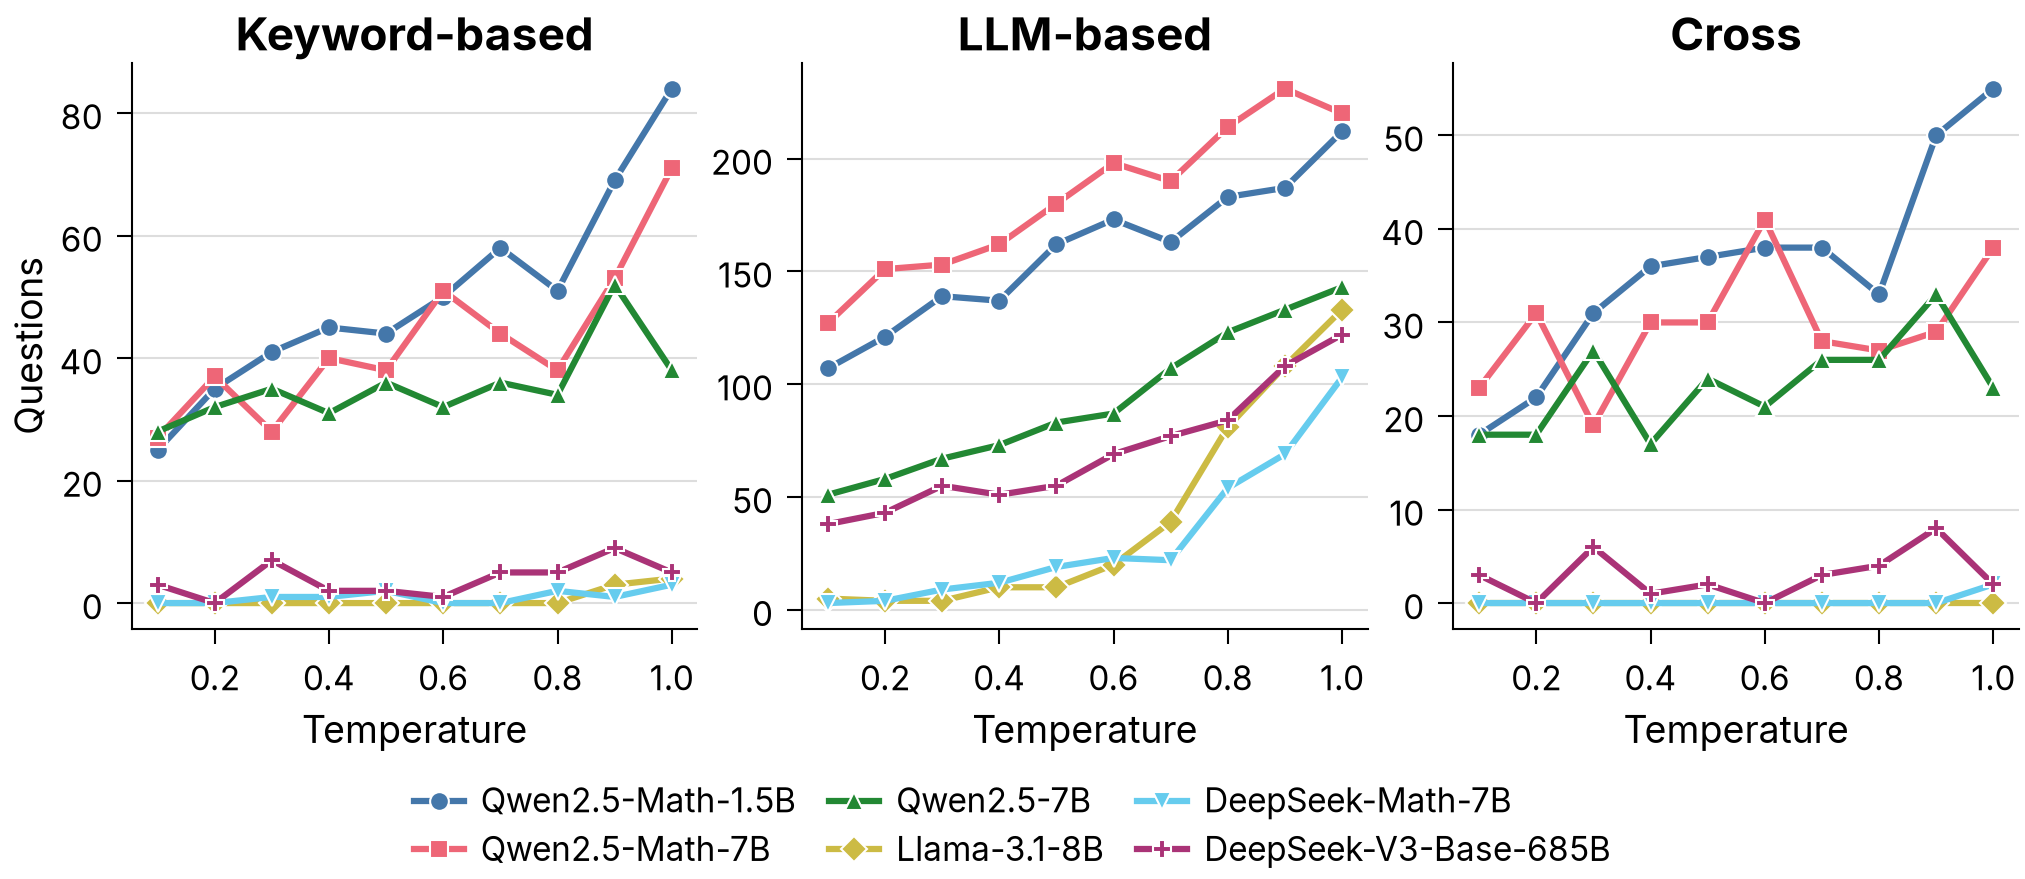
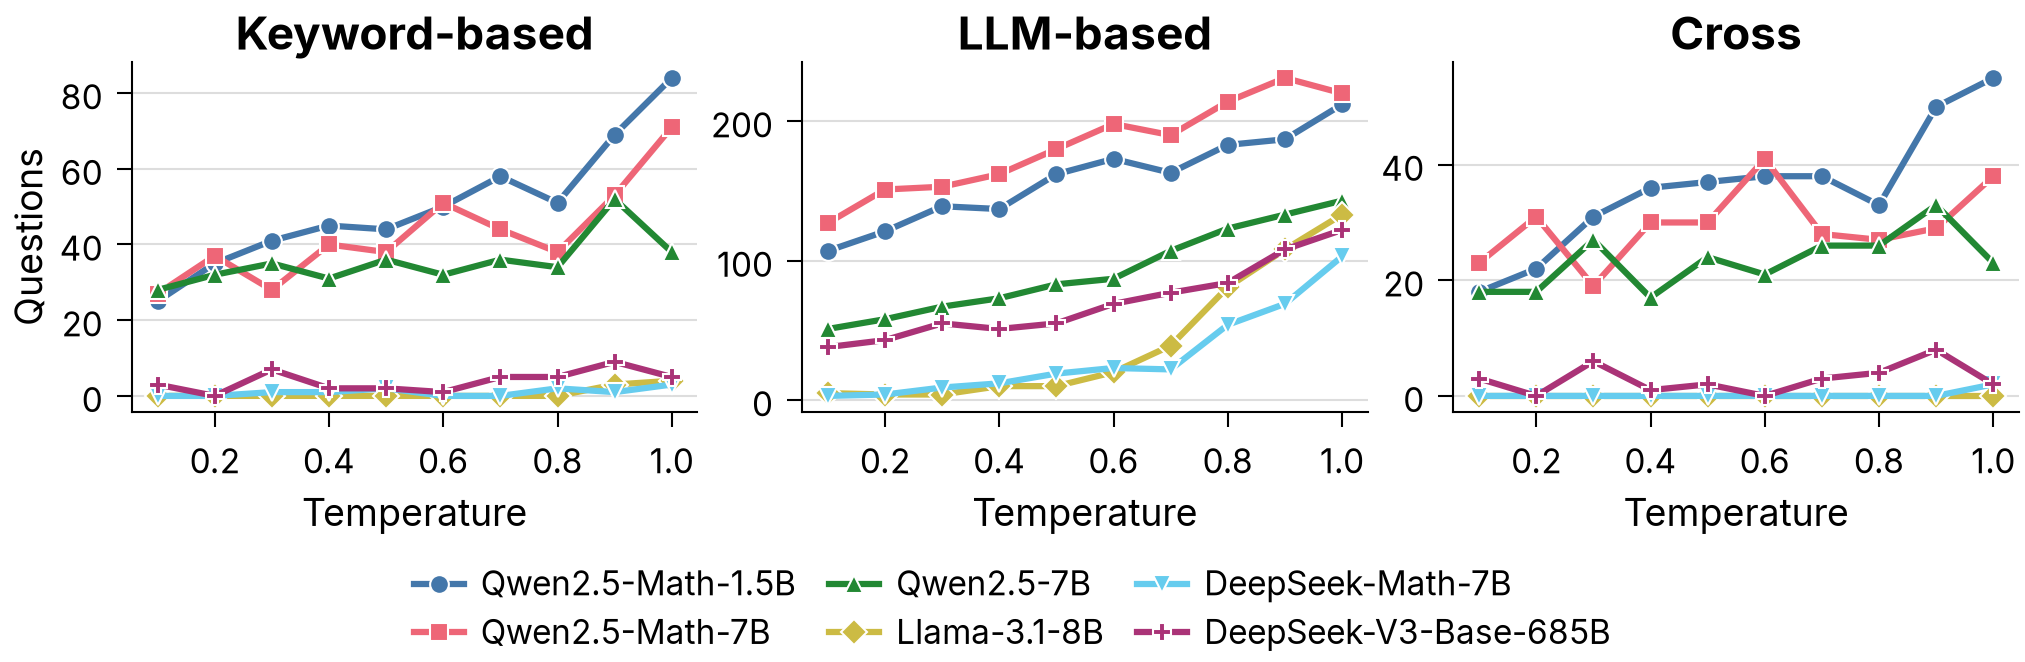
paper-figure: golden ratio by default, drop the 1:1 rule for narrow panels
Curves and bars use 1:0.618 regardless of panel width; 1:1 stays for
heatmaps, confusion matrices and embeddings. README examples redrawn.

diff --git a/skills/paper-figure/SKILL.md b/skills/paper-figure/SKILL.md
@@ -24,16 +24,15 @@ Apply every rule unless the user says otherwise. Order: size → style → plot 
 
 ### Grid and panel aspect
 
-Choose the grid (rows × cols) and the panel aspect together, by judgment, for what this data needs to show. The aspect (width : height) is per panel, not for the whole figure, and is one of four:
+Choose the grid (rows × cols) and the panel aspect together, by judgment, for what this data needs to show. Use the golden ratio (0.618) unless the content needs another aspect. The aspect (width : height) is per panel, not for the whole figure, and is one of four:
 
 | Aspect | `aspect=` | Typical fit |
 |---|---|---|
 | 2.618 : 1 | 0.382 | a single panel at double-column width (curves, bars) |
-| 1 : 0.618 | 0.618 | curves, bars, histograms in a panel ≥ 3 in wide |
-| 1 : 1 | 1.0 | curves, bars in a panel < 3 in wide (3+ columns at double width, 2 columns at single width); heatmap, confusion matrix, embedding |
+| 1 : 0.618 | 0.618 | curves, bars, histograms (default) |
+| 1 : 1 | 1.0 | heatmap, confusion matrix, embedding |
 | 0.618 : 1 | 1.618 | content that is taller than wide (e.g. many horizontal bars) |
 
-- Panel width decides between 0.618 and 1.0: tick labels, titles and axis labels take about the same height at any panel size, so a panel narrower than 3 in at 0.618 leaves too little height for the data.
 - Ask what the reader must see: slopes and gaps between curves need height, many x categories need width, matrices need square cells.
 - Compare a few layouts before choosing. E.g. two line plots in one column: side by side gives ~1.3 in-wide panels that flatten the curves; stacked 2×1 at 0.618 gives each panel the full width and enough height, so it is better.
 - Spread panels evenly; turn off unused cells.
